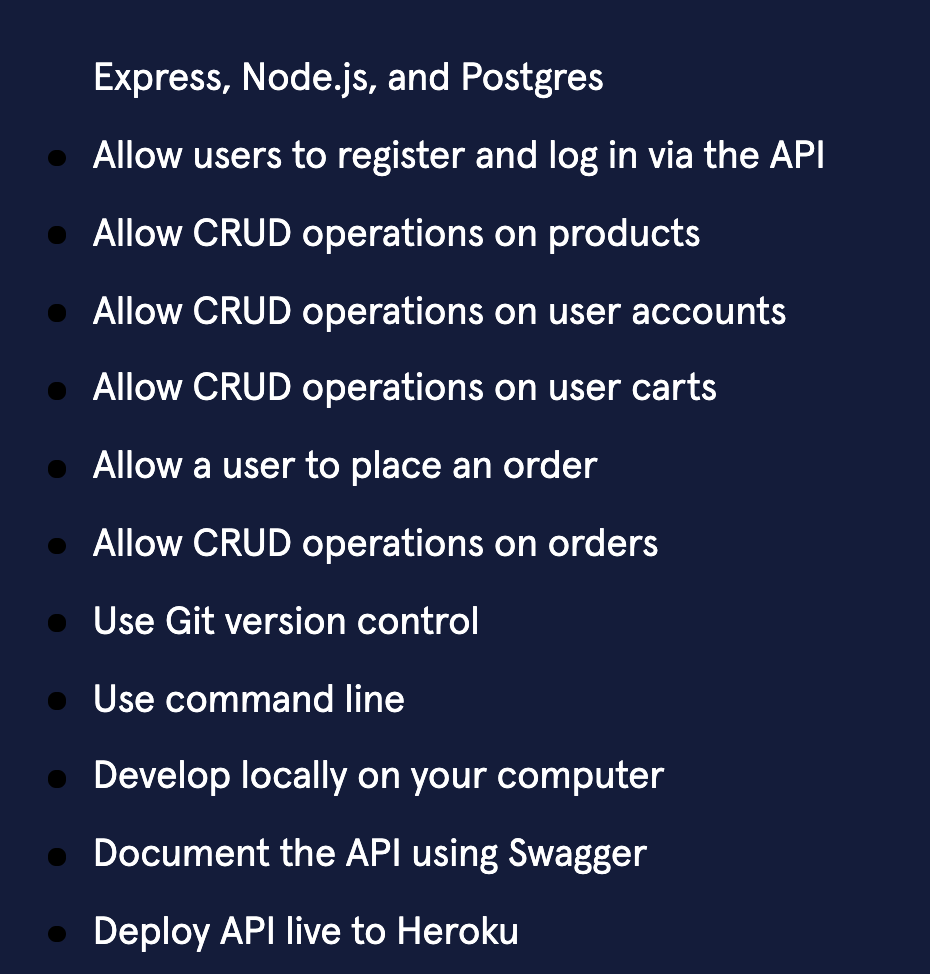
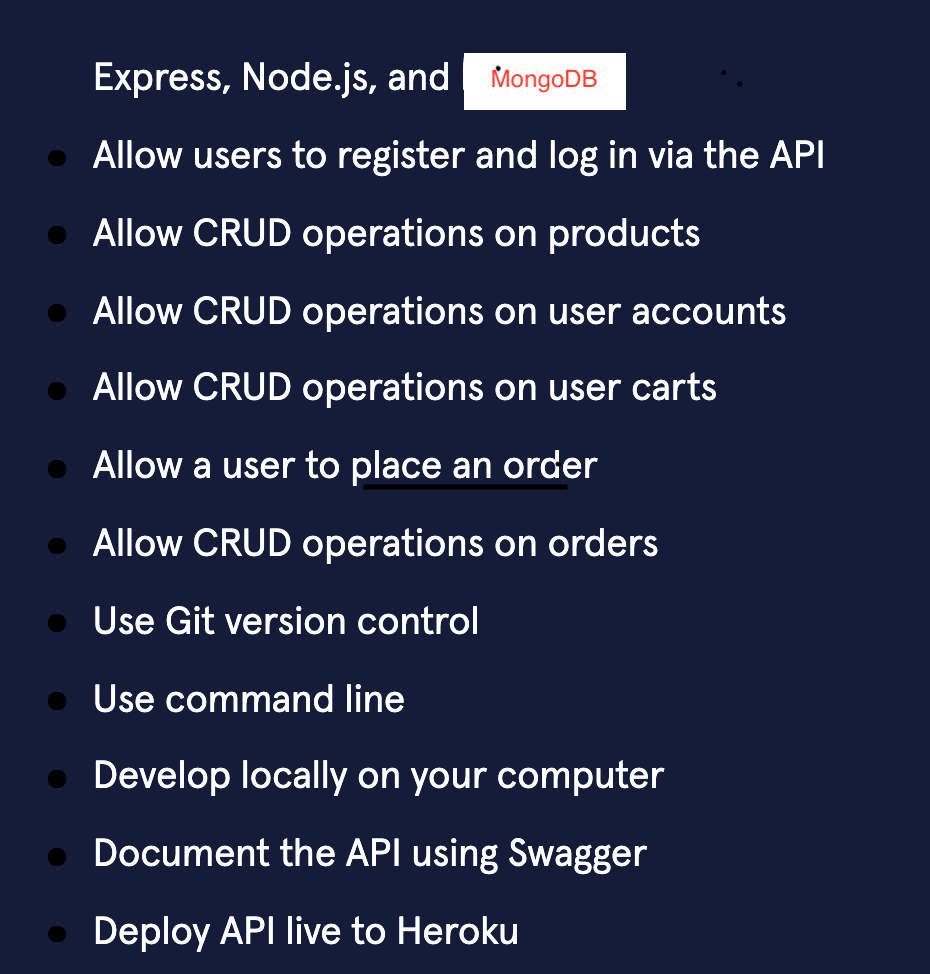
cart Schema created in models folder

Changed region(s): [[0.4989, 0.0308, 0.686, 0.1232], [0.4054, 0.4928, 0.6237, 0.5236]]

diff --git a/models/Cart.js b/models/Cart.js
@@ -1,0 +1,23 @@
+const mongoose = require("mongoose");
+
+const Schema = mongoose.Schema;
+
+let cartSchema = new Schema(
+  {
+    userId: {type:String, required: true},
+    products: [
+      {
+        productId:{
+          type: String
+        },
+        quantity:{
+          type: Number,
+          default: 1,
+        }
+      }
+    ],
+  },
+  {timestamps: true}
+)
+
+module.exports = mongoose.model("cart", cartSchema);

diff --git a/README.md b/README.md
@@ -13,3 +13,8 @@ AUTH- USER MODEL
 
 
 http://localhost:4000/api/docs/
+
+
+### Finishing Up Task Lists:
+October 14, 2021:
+[] ALLOW CRUD operations on USER CARTS
